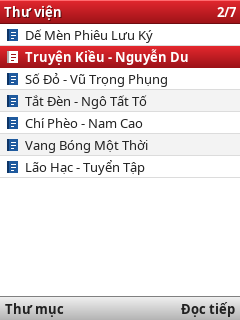
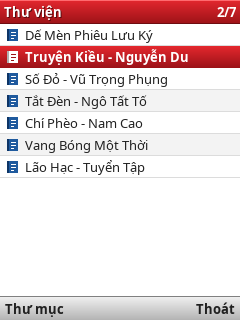
fix: keep exit softkey in library screen and remove key 0 menu shortcut

Changed region(s): [[0.7583, 0.9375, 0.9917, 1.0]]

diff --git a/src/ReaderMidlet.java b/src/ReaderMidlet.java
@@ -149,7 +149,7 @@ public class ReaderMidlet extends MIDlet implements CommandListener, ListScreen.
                 + "1 / 3: chương trước / sau\n"
                 + "Giữ *, bấm Lên/Xuống: tăng/giảm cỡ chữ (bấm * nhanh: đổi cỡ)\n"
                 + "#: đổi giao diện\n"
-                + "Phím mềm trái / 0: Menu\n"
+                + "Phím mềm trái: Menu\n"
                 + "Phím mềm phải: Mục lục\n");
         f.addCommand(cBack);
         f.setCommandListener(this);
@@ -272,7 +272,7 @@ public class ReaderMidlet extends MIDlet implements CommandListener, ListScreen.
             ls.setSoftKeys(curDir != null ? "Chọn" : "", library != null ? "Hủy" : "Thoát");
             if (hasUpItem && n > 0) ls.setSelected(1);
         } else {
-            ls.setSoftKeys("Thư mục", reader.getBook() != null ? "Đọc tiếp" : "Thoát");
+            ls.setSoftKeys("Thư mục", "Thoát");
         }
         browser = ls;
         display.setCurrent(browser);
@@ -320,8 +320,6 @@ public class ReaderMidlet extends MIDlet implements CommandListener, ListScreen.
                 }
             } else if (leftKey) {
                 showFolderPicker();
-            } else if (reader.getBook() != null) {
-                display.setCurrent(reader);
             } else {
                 quit();
             }

diff --git a/tools/CaptureShowcase.java b/tools/CaptureShowcase.java
@@ -74,7 +74,7 @@ public class CaptureShowcase {
         lib.add("Vang Bóng Một Thời", Ui.I_BOOK);
         lib.add("Lão Hạc - Tuyển Tập", Ui.I_BOOK);
         lib.setSelected(1);
-        lib.setSoftKeys("Thư mục", "Đọc tiếp");
+        lib.setSoftKeys("Thư mục", "Thoát");
         dump(lib, new File(outDir, "library.png"));
 
         // 2. Reader screens (Light, Sepia, Dark)

diff --git a/src/ReaderCanvas.java b/src/ReaderCanvas.java
@@ -539,7 +539,6 @@ public class ReaderCanvas extends Canvas {
             return;
         }
         if (code == KEY_POUND) { setTheme((theme + 1) % THEMES.length); return; }
-        if (code == KEY_NUM0) { midlet.showMenu(); return; }
         switch (a) {
             case UP: scroll(repeat ? -5 : -3); break;
             case DOWN: scroll(repeat ? 5 : 3); break;

diff --git a/README.md b/README.md
@@ -48,5 +48,5 @@ java -Dfile.encoding=ISO_8859_1 -jar /mnt/data/apps/freej2me-plus/build/freej2me
 | Giữ `*` + `Lên` / `Xuống` | Tăng / giảm cỡ chữ (có thông báo nhanh trên màn hình) |
 | Bấm `*` nhanh | Đổi vòng cỡ chữ (nhỏ → vừa → lớn) |
 | `#` | Đổi giao diện (Sáng → Tối → Sepia) |
-| Phím mềm trái hoặc `0` | Mở Menu (Mục lục, Đi tới %, Cỡ chữ, Giao diện, Danh sách sách…) |
+| Phím mềm trái | Mở Menu (Mục lục, Đi tới %, Cỡ chữ, Giao diện, Danh sách sách…) |
 | Phím mềm phải | Mở Mục lục |
